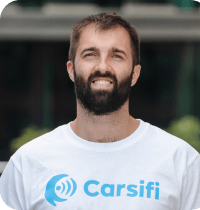
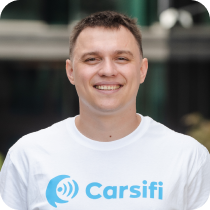
Fix team members

diff --git a/table/global_index.html b/table/global_index.html
@@ -1196,7 +1196,7 @@
 													<table class="w-100" style="padding: 0; margin: 0; border-spacing: 0; font-family: 'Poppins', sans-serif; color: #111; width: 100%;" width="100%">
 														<tr style="padding: 0; margin: 0;">
 															<td class="team-item" style="margin: 0; padding: 0;">
-																<img src="https://carsifi.github.io/listing/table/assets/team-1.png" alt="" style="padding: 0; margin: 0; max-width: 100%; margin-bottom: 10px;">
+																<img src="https://carsifi.github.io/listing/table/assets/team-3.png" alt="" style="padding: 0; margin: 0; max-width: 100%; margin-bottom: 10px;">
 																<h4 style="padding: 0; margin: 0; color: #111; margin-top: 0px; font-weight: 600; font-size: 22px; margin-bottom: 10px;">Ihor Pylyavets</h4>
 																<p style="padding: 0; margin: 0; font-size: 20px; margin-bottom: 15px; color: #696D77; line-height: 1.6;">Senior Android Software Engineer</p>
 															</td>
